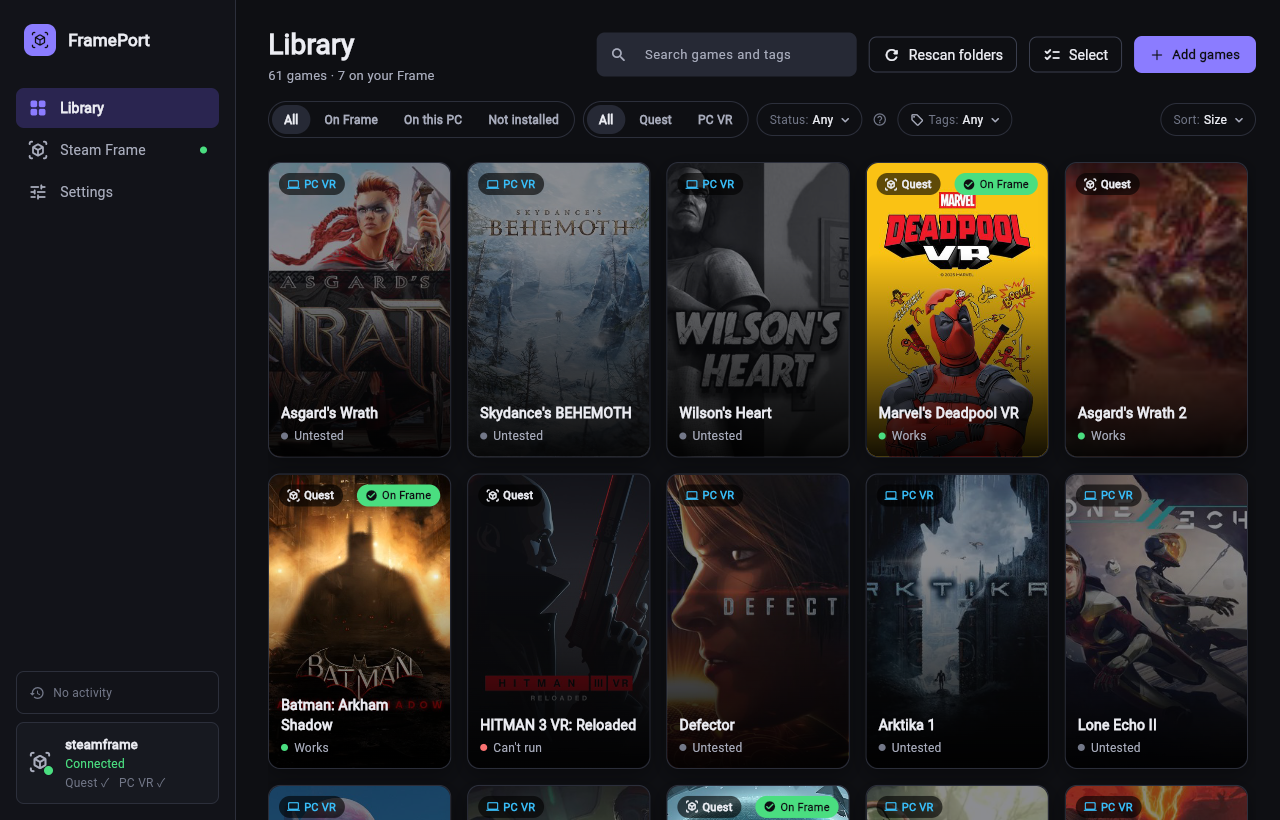
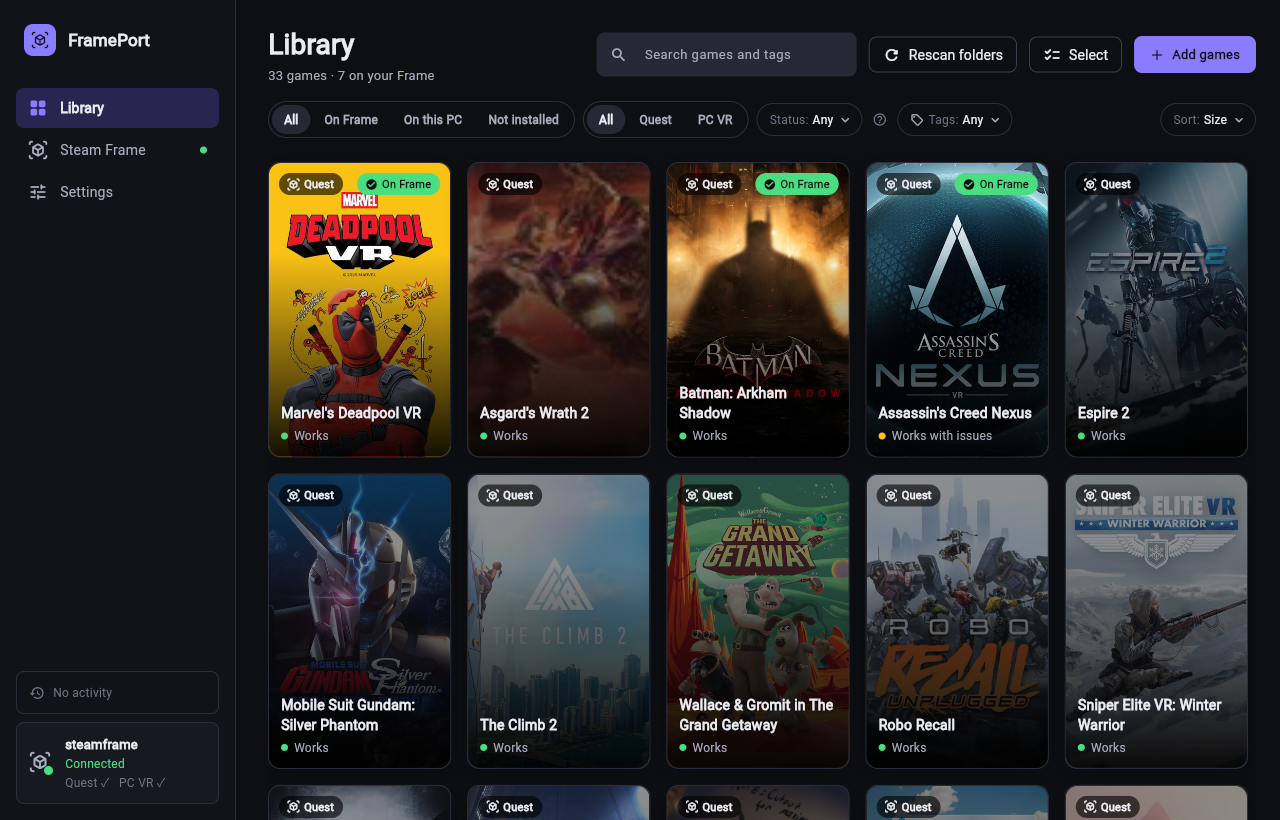
Docs: Library screenshot shows only working games (scrub_library --status)

diff --git a/scripts/scrub_library.py b/scripts/scrub_library.py
@@ -1,7 +1,7 @@
 #!/usr/bin/env python3
 """Make a screenshot-safe copy of a FramePort data folder (for docs/images):
 
-    python scripts/scrub_library.py <data dir> <new dir> [--sort size]
+    python scripts/scrub_library.py <data dir> <new dir> [--sort size] [--status works,issues]
 
 Copies library.json + artwork/ only (no Frame pairing, SSH key, tools, logs or builds). In the copy every game's
 folder name becomes its store title, every local path becomes D:/Games/<Quest|PC VR>/<title>/..., settings other than
@@ -66,9 +66,12 @@ def main() -> int:
     ap.add_argument("src", type=Path)
     ap.add_argument("dest", type=Path)
     ap.add_argument("--sort", default="size", choices=["name", "recent", "played", "size", "status"])
+    ap.add_argument("--status", default="", help="keep only games with these recipe statuses, e.g. works,issues")
     args = ap.parse_args()
     lib = json.loads((args.src / "library.json").read_text())
-    games = {pkg: scrub_game(g) for pkg, g in lib.get("games", {}).items()}
+    keep = {x for x in args.status.split(",") if x}
+    games = {pkg: scrub_game(g) for pkg, g in lib.get("games", {}).items()
+             if not keep or (g.get("recipe") or {}).get("status", "unknown") in keep}
     view = {**(lib.get("settings", {}).get("ui.library") or {}), "sort": args.sort, "platform": "all",
             "where": "all", "status": "all", "tags": []}
     out = {"games": games, "settings": {"ui.library": view, "migrations": lib.get("settings", {}).get("migrations", [])}}

diff --git a/CLAUDE.md b/CLAUDE.md
@@ -161,7 +161,7 @@ Repo is on an NTFS drive (`core.fileMode=false`); line endings are LF (`.gitattr
   artwork, frames.json, the app's SSH key which the dev Frame authorizes).
 - Device checks: `frameport test <pkg>` / `frameport parity-device --results <parity.json> --baseline <launch.txt>
   [--test-only]`; the pre-FramePort baseline is `PATCHED/_known-good-2026-09-28/_frame-state/baseline-launch.txt`.
-- Docs screenshots (`docs/images/`): `python scripts/scrub_library.py ~/.local/share/frameport <dir>` (copies
+- Docs screenshots (`docs/images/`): `python scripts/scrub_library.py ~/.local/share/frameport <dir> --status works,issues` (copies
   library + artwork only; titles replace folder names, local paths → `D:/Games/...`, sort by size) then
   `FRAMEPORT_HOME=<dir> python scripts/ui_smoke.py --out <shots> --docs --fake-frame --game <pkg>` (set
   FRAMEPORT_JAVA/_OVERPORT_JAR/_APKSIGNER_JAR so no tool download toast appears; `--viewport 1280x2600` + crop for the
